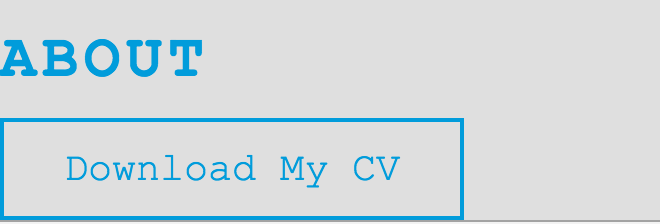
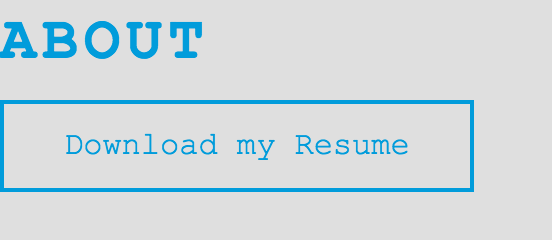
edits to p3

Changed region(s): [[0.0, 0.4062, 1.0, 1.0], [0.0, 0.0625, 0.3696, 0.3438]]

diff --git a/P3-basic-styling/content.md b/P3-basic-styling/content.md
@@ -4,40 +4,42 @@ slug: basic-styling
 ---     
 
 #Styling the portfolio
-Now that the files are connected, let's add some basic rules to our CSS to make the page look more colorful. One way to do that is to add some background color to the page. Pick any color you like, keeping in mind that your users will have to see that page and you want to make a good impression and keep your text legible.
+Now that the files are connected, let's add some basic rules to our CSS to make the page look better. One way to do that is to add some background color to the page. Pick any color you like, keeping in mind that your users will have to see that page and you want to make a good impression and keep your text legible.
 
 > [action]
-> Use the tag selector for body and add a rule to it in the CSS file. Remember that a tag selector has no dot nor hashtag, then add curly brackets and within it, the following rule:
+> Use the tag selector for `body` and add a rule to it in the CSS file. Remember that a tag selector has neither dot nor hashtag, then add curly brackets and within it, the following rule:
+> 
 > ```
 >    background-color: #dfdfdf;
 > ```
 > Save your file and check out your portfolio so far. 
 
-Now that you know how it's done, let's add some more default styles to our CSS file like the color of our font, the font type itself and color for our links. The default styles provided by each browser aren't very fancy nowadays, so let's put some style onto that page!
+The default styles provided by each browser aren't very fancy, so now that you know how it's done, let's add some more default styles to our CSS file.
 
 > [action]
-> Come up with a few rules that you always want to see on your page and add them to the same body tag. Here are some examples of things you could add:
+> Come up with a few rules that you always want to apply to your page and add them to the same `body` tag. Here are some examples of things you could add:
 > 
 > - color of the font
-> - font-family (changes the font type you use)
+> - font-family (changes the typeface)
 > - font-size 
 > - more [CSS properties](https://developer.mozilla.org/en-US/docs/Web/CSS/Reference), click through each property to see what they do
 >
 > You can see lots of ideas of what CSS can do in the [CSS Zen Garden](http://www.mezzoblue.com/zengarden/alldesigns/).
 >
-> A good place to find some colors to add to your page is [color-hex](http://www.color-hex.com/). If you're looking for fonts, try [cssfontstack](http://www.cssfontstack.com/).
+> A good place to find some colors to add to your page is [Adobe Color](https://color.adobe.com/explore/most-popular/?time=all). If you're looking for fonts, try [cssfontstack](http://www.cssfontstack.com/) to see what's built-in, and [Google Fonts](https://www.google.com/fonts) to see hosted fonts you can add to your page.
 
 <!-- Comment to break actionable boxes. -->
 
 > [info]
 > **Hex values, RGB and more**
 >
-> You've probably noticed that I used the word blue in our first example to set the font color. But with the background-color, I used hex values. It's also possible to use RGB values. There's a good write up on Wikipedia [here](https://en.wikipedia.org/wiki/Web_colors) about web colors, so just go ahead and find out more about the differences between these.
+> You've probably noticed that I used the word blue in our first example to set the font color. But with the background-color, I used hex values. It's also possible to use RGB values. There's a good write up on Wikipedia [here](https://en.wikipedia.org/wiki/Web_colors) about web colors. Note that it's better that you specify colors exactly, using hex or RGB, rather than using HTML color names, like `blue` or `maroon`. 
 
 <!-- Comment to break actionable boxes. -->
 
 > [solution]
 > Here is the CSS that we used to style some basics on our page:
+> 
 > ```
 >    body {
 >      background-color: #dfdfdf;
@@ -45,30 +47,31 @@ Now that you know how it's done, let's add some more default styles to our CSS f
 >      font-family: 'Courier New', Courier, 'Lucida Sans Typewriter', 'Lucida Typewriter', monospace;
 >    }
 > ```
-> It's good to set a group of fonts as some operating systems might not have the first font you specified and will fall back on the second specified font. If that doesn't exist either, it will try the third one and so on.
+> It's good to set a group of fonts as some operating systems might not have the first font you specified, and will fall back to the second specified font. If that one doesn't exist, it will try the third one, etc.
 
 #Basic styling for the header
 First we add the border at the top. We've chosen the color that we already have in the logo. There are simple Chrome extensions out there that can help you with selecting a color from a web page, like [Colorzilla](https://chrome.google.com/webstore/detail/colorzilla/bhlhnicpbhignbdhedgjhgdocnmhomnp) for example.
 
 > [action]
-> Add a top border to the header. The property **border** can take 3 shorthand values. The first one is the type of border you want (solid, dotted, dashed), the second parameter is the size of the border in pixels and the last parameter is the color. 
+> Add a top border to the header. The best way to do that is to make a CSS class called `header`. That class will contain the `border-top` property, which takes 3 values, separated by spaces. The first one is the type of border you want (`solid`, `dotted`, or `dashed`), the second parameter is the size of the border in pixels (`10px` for example) and the last parameter is the color. 
 
 <!-- Comment to break actionable boxes. -->
 
 > [solution]
 > Don't forget to add a class to your header tag in the HTML!
+>
 > ```
 >    .header {
 >      border-top: solid 8px #019cdb;
 >    }
 > ```
 
-Now if you reload the page, do you see that there is some spacing between the border and the top of the page? Why do you think that is? 
+Now if you reload the page, do you see that there is some spacing between the border and the top of the page. Why do you think that is? 
 
-This is one of those cases where all browsers display it slightly different. Each browser vendor uses their own default stylesheet to display certain elements. One of the things they do is add a default margin and padding to HTML elements. One way to prevent this, is to use a normalized stylesheet (as mentioned in the boilerplate info box). We will just use a very simplified version for that by adding the following rules to the very top of our CSS file.
+This is one of those cases where all browsers display things slightly different. Each browser vendor uses their own default stylesheet to display certain elements. One of the things they do is add a default `margin` and `padding` to HTML elements. One way to prevent this is to use a normalized stylesheet, like [HTML5 Boilerplate](https://html5boilerplate.com/) mentioned earlier. We will use a very simplified version by adding the following rules to the very top of our CSS file.
 
 > [action]
-> Add this rule to the very top of your stylesheet and see what that does to your border:
+> Add this rule to the very top of your stylesheet, then see what it does to your border:
 > ```
 >    * {
 >      margin: 0;
@@ -76,17 +79,18 @@ This is one of those cases where all browsers display it slightly different. Eac
 >    }
 > ```
 
-Now that has made all the difference! This resets the browsers stylesheet to make all HTML elements have 0 as a default value for the margin and padding. There's more that can be done here but for sake of simplicity, we leave it at that for now. If you're more interested in this topic, head [here](http://nicolasgallagher.com/about-normalize-css/) to read more about it.
+Now that has made all the difference! This resets the browser's stylesheet to make all HTML elements have `0` as a default value for the `margin` and `padding`. There's more that can be done, but for sake of simplicity, we'll leave it at that for now. If you're interested in this topic, head [here](http://nicolasgallagher.com/about-normalize-css/) to read more about it.
 
-Now that we have a nice border at the top, let's make our links look better than the dotted list we currently have. There are two things we want to achieve here. We want to make the links display horizontally rather than vertically in a list. On top of that, we want to remove the dots that prefix each list item and remove the underline of the links. And while we're at it, we should position the navigation better as a whole and have the links be a different color when a user hovers over each item.
+Now that we have a nice border at the top, let's make our links look better than the unordered list we currently have. First, we want to make the links display horizontally rather than vertically. Also, we want to remove the dots that prefix each list item and remove the underline of the links. While we're at it, we should position the navigation better and have the links be a different color when a user hovers over each item.
 
 > [action]
-> Make the list vertical by using the rule `display:inline;` and `list-style:none;` on the list items. Add some margin to our nav tag to move it away from the left and down from the top. Don't forget to use classes!
+> Make the list vertical by using the rule `display:inline;` and `list-style:none;` on the list items. To do this, you'll want to make a new class, and apply it to each of the list items. Also, make a different new class to add some margin to the nav tag to move it away from the left and down from the top.
 
 <!-- Comment to break actionable boxes. -->
 
 > [solution]
 > In the CSS file:
+> 
 > ```
 >    .nav {
 >      margin-top: 12px;
@@ -101,6 +105,7 @@ Now that we have a nice border at the top, let's make our links look better than
 > ```
 >
 > In the HTML file:
+> 
 > ```
 >    <header class="header">
 >        <nav class="nav">
@@ -113,14 +118,15 @@ Now that we have a nice border at the top, let's make our links look better than
 >    </header>
 > ```
 
-As we want the link changes to be sitewide and not just for this instance, let's use the tag selectors for the links. You also need to use the pseudo selector :hover to change the link color on hover. It is used by adding **:hover** after your selector. In this instance, you would use **a:hover** as a selector to change the link color on hover. 
+We want the link changes to be site-wide and not just for this file, so we'll use tag selectors for the links. You need to use the [pseudo-class](http://www.w3schools.com/css/css_pseudo_classes.asp) `:hover` to change the link color on hover. It is invoked by adding `:hover` after your selector. In this case, we will use `a:hover` as a selector to change the link color on hover. 
 
 > [action]
-> Use the a tag selector to add a default color to links and remove the underline of the link. The text-decoration property will help you.
+> Use the `a` tag selector to add a default color and remove the underline of links. The `text-decoration` property will help you remove the underlines. Use the `a:hover` pseudo-class to change the link hover color.
 
 <!-- Comment to break actionable boxes. -->
 
 > [solution]
+> 
 > ```
 >    a {
 >      color: #019cdb;
@@ -136,29 +142,30 @@ As we want the link changes to be sitewide and not just for this instance, let's
 > ![basic header styling](./1-header.png "basic header styling")
 
 #Basic styling for the footer
-As the footer has only two items that need styling, let's transform it before the main content. The footer needs to get a new font color for the "About" header and we need to style the button. Let's start with the color and casing of the header. 
+The footer has only two items that need styling, so let's do that next. The header text in the footer should be changed to make it look more like a title.  It should be centered in the page, have a different color and we'll make it all caps to make it stand out. Also we should style the download button to make it look more buttony. 
 
 > [action]
-> Change the font-color, casing and text alignment of the "About" header. Add a class to the header first and then use the *text-transform*, *text-align* and *color* properties. 
+> Create a new class called *title* and use it to change the font color, letter case and text alignment of the "About" header.  You can do that with the `color`, and `text-transform` properties. Also, consider messing with the `letter-spacing` property to give it some character. Create another class, called *footer-sub* and use it to make the `font-size` of the "About" header larger.  We'll end up using the *title* class in other places, but we'll want to have different font-sizes for those, so it makes sense to put the `font-size` rule in a different class.
 
 <!-- Comment to break up actionable boxes. -->
 
 > [solution]
-> Because we want to reuse the title later on in the other titles. We added one class for rules that the other titles have in common called *title* and another class called *footer-sub* that will control the font-size of this particular title.
+> We added one class for rules that the other titles have in common called *title* and another class called *footer-sub* that will control the font-size of this particular title.
 > 
 > In the HTML file:
+> 
 > ```
 >    <footer>
 >        <h3 class="footer-sub title">About</h3>
->        <a href="./cv.pdf" download="Kitty's CV">Download My CV</a>
+>        <a href="./resume.pdf" download="Kitty's Resume">Download My Resume</a>
 >    </footer>
 > ```
 > In the CSS file:
+> 
 > ```
 >    .title {
 >      color: #019cdb;
 >      text-transform: uppercase;
->      text-align: center;
 >      letter-spacing: 3px;
 >    }
 > 
@@ -167,25 +174,28 @@ As the footer has only two items that need styling, let's transform it before th
 >    }
 > ```
 
-Once we've changed those, we should add those two horizontal lines left and right of the title. That will require some flexbox magic though, so let's hold off with that until the next section where we will cover flexbox in depth.
+Later, we'll add two horizontal lines left and right of the title. That will require some flexbox magic, so let's hold off on that until a bit later, when we will cover flexbox in-depth.
 
-Let's focus our attention on the button instead. First we need to give the button a border to make it look like a button and let's color in the same theme as the rest our page. We should also give it a hover effect, so users know that they have to click it to download the CV.
+Let's focus our attention on the button. First, we should to give the button a border to make it look like a button. We should also color it in in a way that matches the rest our page and we should also give it a hover effect, so that it feels more clickable to users.
 
 > [action]
-> Add a border to the button, play with the options that the inspector provides to get a feel for what styles are available. You want to use the properties: *border*, *display:inline-block;*, *padding* and for the hover effect, you need to use the pseudo selector :hover again. In there you might want to use the property *cursor*.
+> Add a border to the button - play with the options that the inspector provides to get a feel for what styles are available. You want to use these properties: `border`, `display:inline-block;`, and `padding`. For the hover effect, you need to use the pseudo-class `:hover` again, but this time use it with your `button` class.
 
 <!-- Comment to break up actionable boxes. -->
 
 > [solution]
-> You want to add a class to the HTML div:
+> Add a class to the link in the HTML: 
+> 
 > ```
->    <a href="./cv.pdf" download="Kitty's CV" class="button">Download My CV</a>
+>    <a href="./resume.pdf" download="Kitty's Resume" class="button">Download My Resume</a>
 > ```
+> 
 > And then we add the following rules to the class and use the pseudo selector :hover.
+> 
 > ```
 >    .button {
 >      border: 2px solid #019cdb;
->      color: #019CDB;
+>      color: #019cdb;
 >      display: inline-block; /* To wrap the border just around the content */
 >      font-size: 20px;
 >      margin-top: 12px;
@@ -193,9 +203,9 @@ Let's focus our attention on the button instead. First we need to give the butto
 >    }
 >    
 >    .button:hover {
->      background-color: #019CDB;
+>      background-color: #019cdb;
 >      color: #dfdfdf;
->      cursor: pointer;
+>      cursor: pointer; /* This ensures that the cursor changes on hover */
 >    }
 > ```
 > This should achieve something like this: 
@@ -204,17 +214,18 @@ Let's focus our attention on the button instead. First we need to give the butto
 
 
 #Basic styling of the main content
-After the header and footer, let's take care of the main content. The kitten image should be round and we want our logo to be positioned above the kitten. Our two catch phrases should be centered on the image. Making our image a circle and centering content on web pages used to be an art in hacking and making complicated changes to our web page just to get things centered. Thanks to the latest advances in CSS, we can now forget all of this and use the power of flexbox to get everything in place! We'll cover that part in the next section. For now let's focus on changing the font size, color and type.
+For now, let's focus on changing the font size, color and type of the main content.
 
 > [action]
-> Pick a font you like on [cssfontstack](http://www.cssfontstack.com/) and add it to the class selector of your main title and sub title. Then select a color for the font as well as a size for the font and add it to the rules. The rules that you might want to look into are *text-transform*, *letter-spacing* and *font-size*.
+> Create two new classes, for the main title and sub-title. Pick a font you like on [cssfontstack](http://www.cssfontstack.com/) and add it to the class selector of your main title and sub title. Then select a color for the font as well as a size for the font and add it to the rules. The rules that you might want to look into are `text-transform`, `letter-spacing` and `font-size`. Of course, feel free to use the `.title` class you've already created, too.
 
 <!-- Comment to break up actionable boxes. -->
 
 > [solution]
-> You need to add a class to the h1 and h2 tag. We reused the *title* class from the footer and added a separate class for each title to manipulate the font-size.
+> You need to add a class to the h1 and h2 tag. In this case, we reused the `title` class from the footer and added a separate class for each title to manipulate the font-size.
 >
 > The HTML file:
+> 
 > ```
 >    <section>
 >        <img src="https://goo.gl/RG3GtK" />
@@ -223,7 +234,9 @@ After the header and footer, let's take care of the main content. The kitten ima
 >        <h2 class="sub title">I love creating code</h2>
 >    </section>
 > ```
+> 
 > The CSS file:
+> 
 > ```
 >    .main {
 >      font-size: 78px;
@@ -237,13 +250,14 @@ After the header and footer, let's take care of the main content. The kitten ima
 >
 > ![main content styling](./3-main-content.png "main content styling")
 
-Once you have had some time adding CSS properties to your page, make sure the page looks like you expected. Below is a solution that will style the page to look like the page we showed at the beginning of this tutorial. It will give you an idea of things you can add to the page that will make the page more colorful and modern. Don't get ahead of yourself in terms of centering the content and making the image circular. We'll cover this in the next part using CSS3.
+Make sure the page looks like you want by spending some time adding some CSS to your page. Below is a solution that will style the page to look like the one we showed at the beginning of the tutorial, which you may do if you like, or you can do something different. Don't get ahead of yourself in terms of centering the content and making the image circular. as we'll cover that in the next part using CSS3.
 
 > [solution]
-> Just in case, we lost you somewhere, here are the HTML and CSS file that will make the page look like this:
+> Just in case we lost you somewhere, here are the HTML and CSS files that will make the page look like this:
 > ![All content with basic styling](./4-all-content.png "All content with basic styling")
 >  
 > HTML file: 
+> 
 > ```
 >    <body class="default">
 >      <header class="header">
@@ -269,7 +283,9 @@ Once you have had some time adding CSS properties to your page, make sure the pa
 >      </footer>
 >    </body>
 > ```
+> 
 > And the CSS file so far:
+> 
 > ```
 >    * {
 >      margin: 0;
@@ -327,7 +343,7 @@ Once you have had some time adding CSS properties to your page, make sure the pa
 >    
 >    .button {
 >      border: 2px solid #019cdb;
->      color: #019CDB;
+>      color: #019cdb;
 >      display: inline-block; /* To wrap the border just around the content */
 >      font-size: 20px;
 >      margin-top: 12px;
@@ -335,7 +351,7 @@ Once you have had some time adding CSS properties to your page, make sure the pa
 >    }
 >    
 >    .button:hover {
->      background-color: #019CDB;
+>      background-color: #019cdb;
 >      color: #dfdfdf;
 >      cursor: pointer;
 >    }
